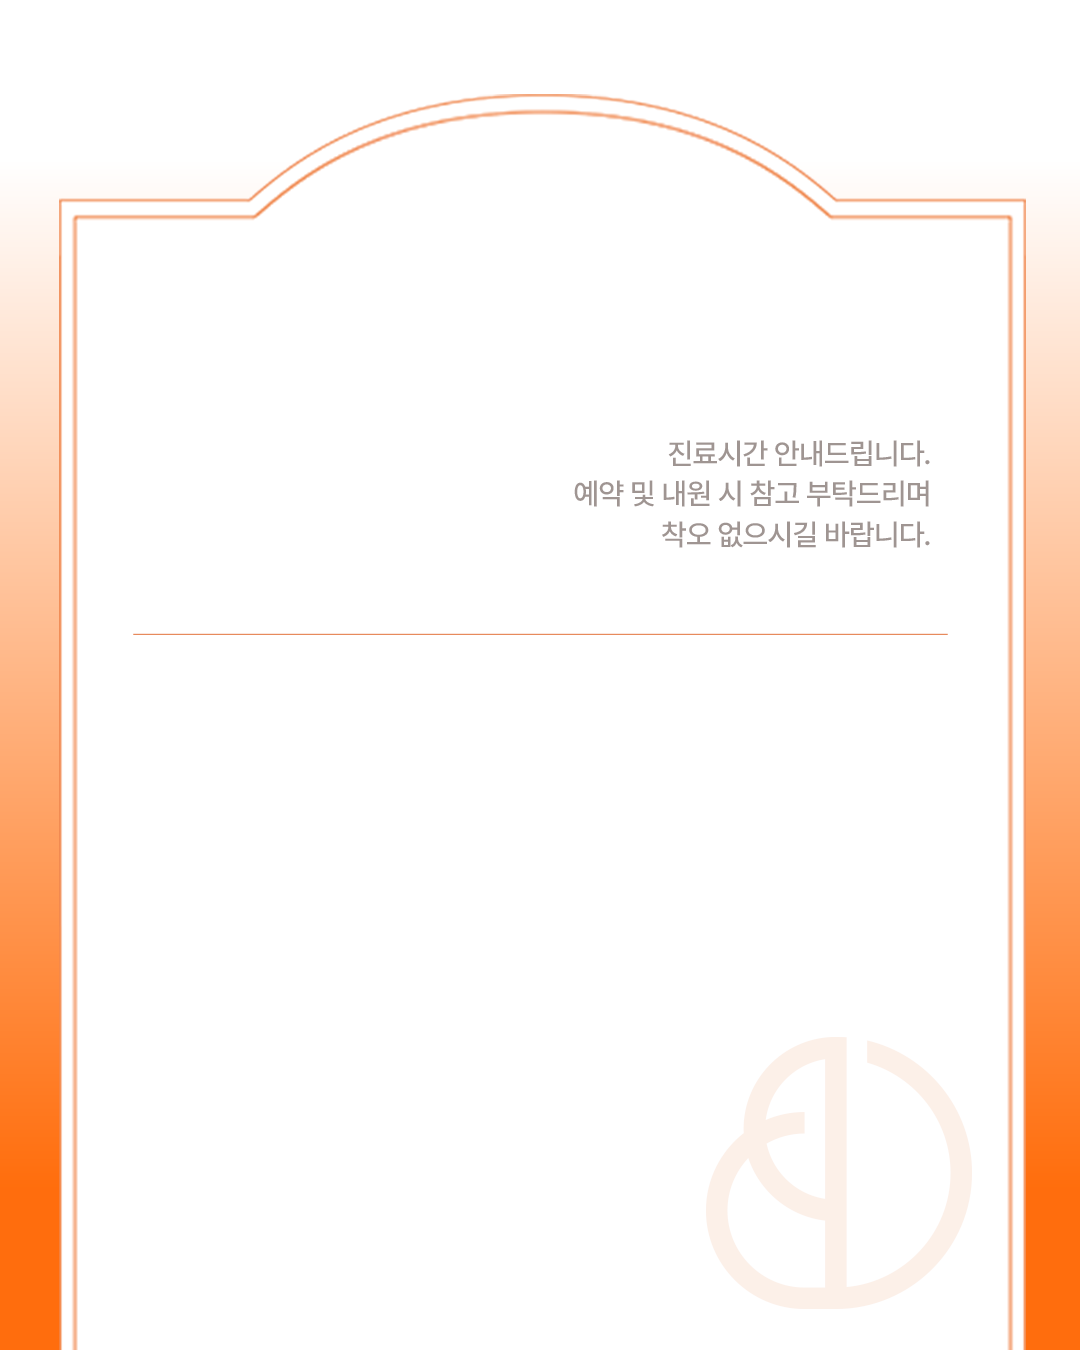
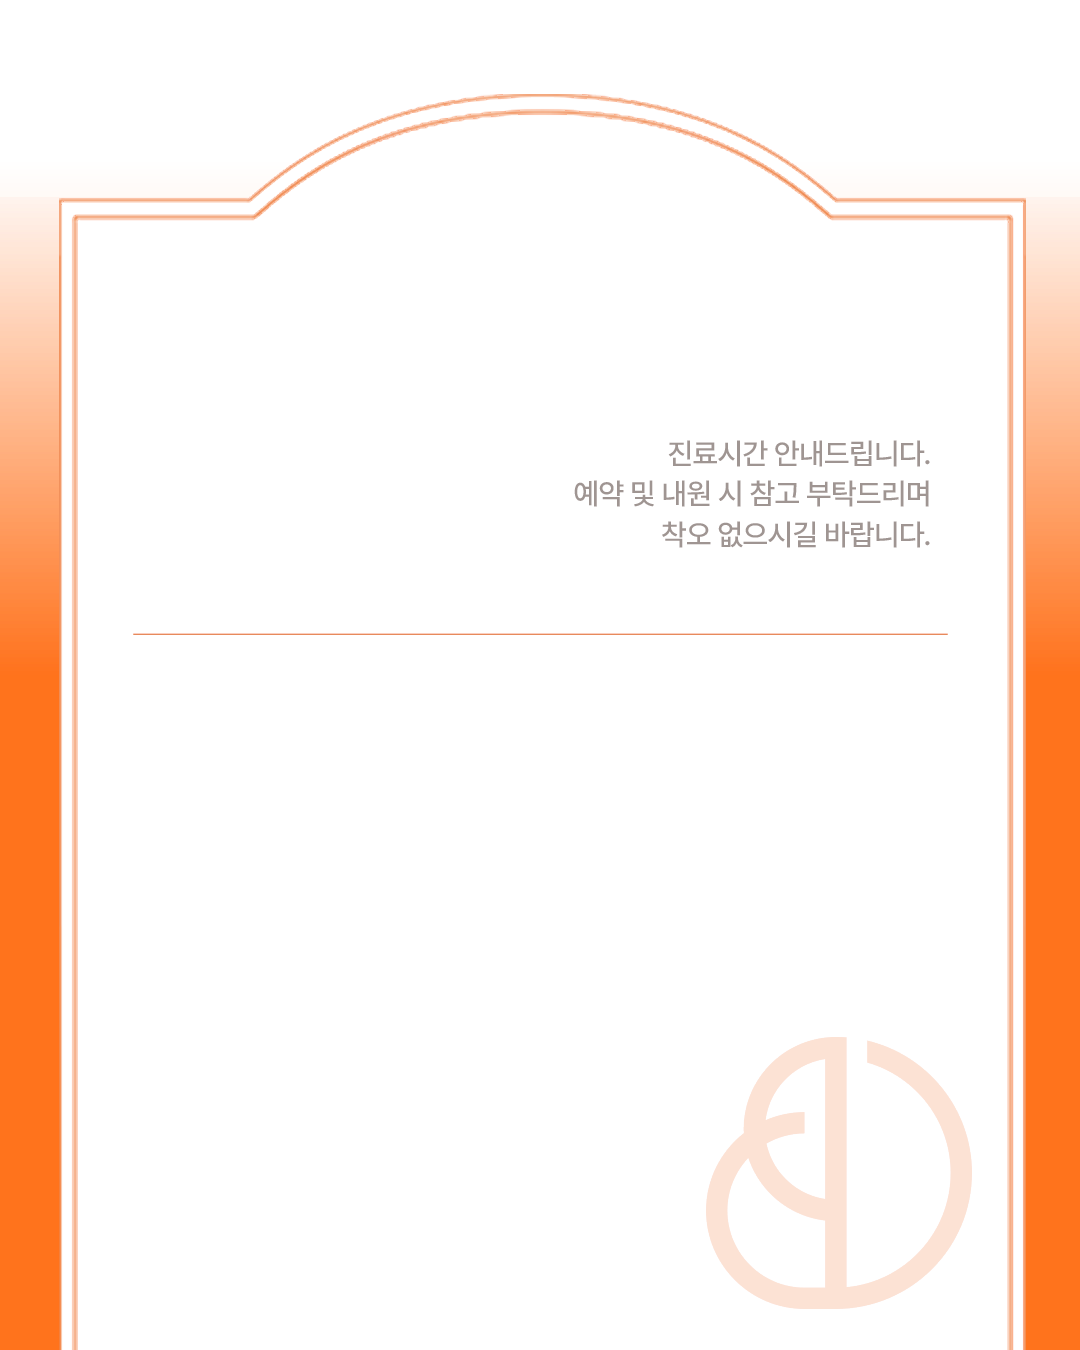
배경색 A4 기준 통일 + PC 달력 확대 + 팝업 추출 고해상도
- bg-insta/mo/pc 오렌지 그라데이션을 A4의 선명한 주황(255,115,28)으로 리맵
  (텍스트·로고·흰 영역은 보존, 파스텔→비비드 채도만 통일)
- PC 달력 영역 확대: cal.t 0.34→0.25, 원형 0.062→0.08,
  하단 박스 0.62→0.66(높이 0.3→0.26)로 달력 세로공간 확보
- 이미지 추출 해상도 상향(pixelRatio): MO ×3, PC·인스타 ×2 (A4는 ×1 유지)

Claude-Session: https://claude.ai/code/session_01KZF4ihkVbwkEzVchkr5nFz

Changed region(s): [[0.9472, 0.1867, 1.0, 0.7778], [0.0, 0.1867, 0.0611, 0.7778]]

diff --git a/src/App.tsx b/src/App.tsx
@@ -114,7 +114,9 @@ export default function App() {
         const node = posterRefs.current[sz];
         if (!node) continue;
         const size = OUTPUT_SIZES.find((s) => s.id === sz)!;
-        const common = { width: size.w, height: size.h, pixelRatio: 1, cacheBust: true };
+        // 팝업(PNG)은 작아서 화질 저하 → 고해상도로 렌더(MO는 특히 작아 3배).
+        const ratioMap: Record<string, number> = { a4: 1, insta: 2, pc: 2, mo: 3 };
+        const common = { width: size.w, height: size.h, pixelRatio: ratioMap[sz] ?? 1, cacheBust: true };
         const dataUrl =
           size.fmt === "jpg"
             ? await htmlToImage.toJpeg(node, { ...common, quality: 0.9, backgroundColor: "#ffffff" })

diff --git a/src/components/notice/NoticePoster.tsx b/src/components/notice/NoticePoster.tsx
@@ -97,8 +97,8 @@ const SPECS: Record<OutputSize, VariantSpec> = {
     octT: 0.35,
     notT: 0.49,
     month: { l: 0.088, t: 0.66, font: 0.06 },
-    cal: { l: 0.4, t: 0.34, w: 0.53, wdFont: 0.03, dateFont: 0.058, circle: 0.062, rowGap: 0.02, labelFont: 0.024 },
-    bottom: { l: 0.406, t: 0.62, w: 0.521, h: 0.3, pillFont: 0.024, dateFont: 0.025, timeFont: 0.022 },
+    cal: { l: 0.4, t: 0.25, w: 0.53, wdFont: 0.03, dateFont: 0.058, circle: 0.08, rowGap: 0.02, labelFont: 0.024 },
+    bottom: { l: 0.406, t: 0.66, w: 0.521, h: 0.26, pillFont: 0.024, dateFont: 0.025, timeFont: 0.022 },
   },
 };
 
